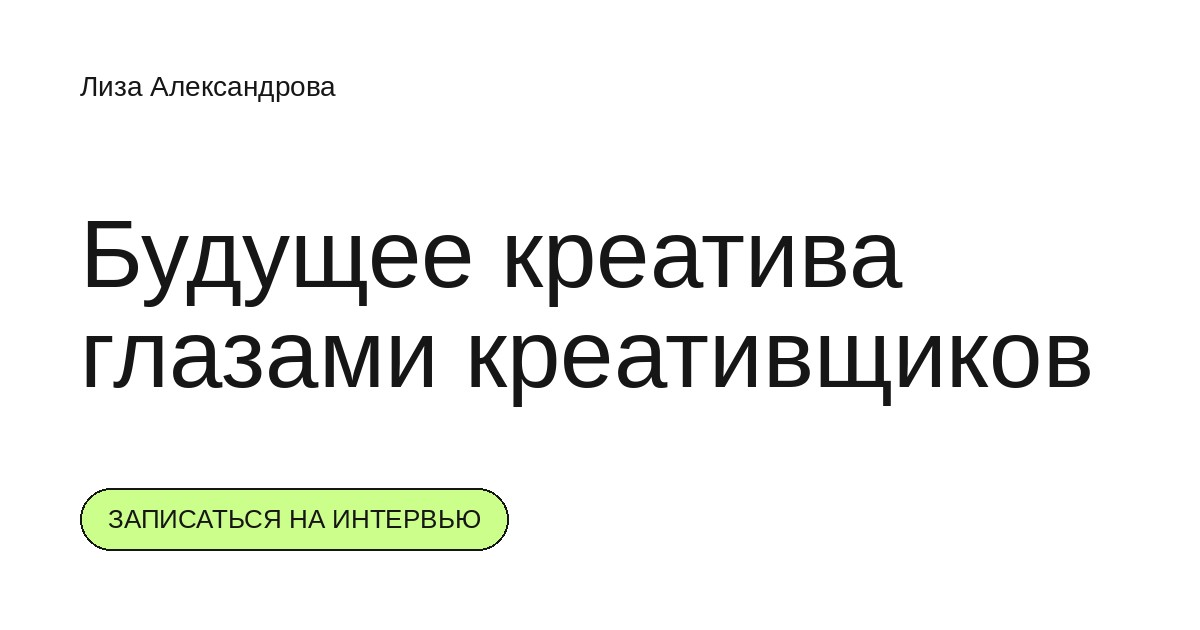
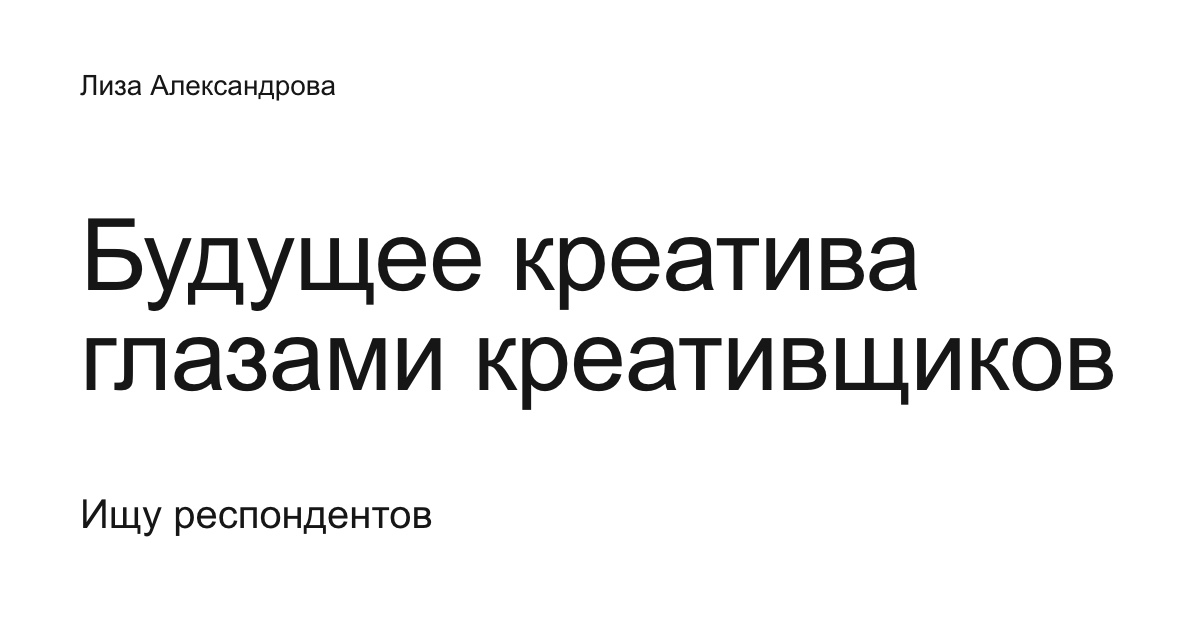
Новое превью для соцсетей: описание и картинка

Changed region(s): [[0.0617, 0.3317, 0.925, 0.6635], [0.0617, 0.754, 0.4317, 0.8746], [0.0617, 0.1206, 0.2775, 0.1508]]

diff --git a/index.html b/index.html
@@ -11,8 +11,8 @@
 <meta property="og:type" content="website">
 <meta property="og:locale" content="ru_RU">
 <meta property="og:title" content="Будущее креатива глазами креативщиков">
-<meta property="og:description" content="Исследование Лизы Александровой. Ищу креативщиков для интервью.">
-<meta property="og:image" content="https://lisaleks000-jpg.github.io/future-of-creative/og.jpg">
+<meta property="og:description" content="Исследование бренд-коммуникаций с коллегами по цеху">
+<meta property="og:image" content="https://lisaleks000-jpg.github.io/future-of-creative/og.jpg?v=2">
 <meta property="og:image:width" content="1200">
 <meta property="og:image:height" content="630">
 <meta property="og:url" content="https://lisaleks000-jpg.github.io/future-of-creative/">
